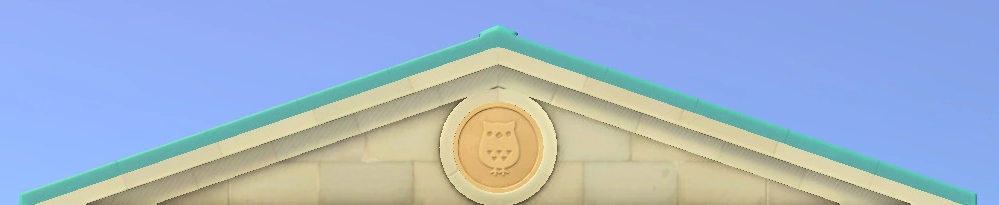
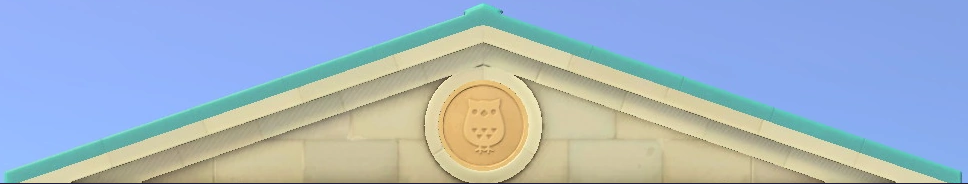
styling and details changes

Changed region(s): [[0.0, 0.0272, 1.0, 1.0], [0.4339, 0.7337, 0.5579, 0.9511], [0.5579, 0.7337, 0.5888, 0.7609]]

diff --git a/src/components/Header.css b/src/components/Header.css
@@ -10,13 +10,14 @@
 }
 
 .Header .bgimage {
-  background-image: url("../assets/museum-top.png");
+  background-image: url("../assets/museum-top.PNG");
   background-repeat: no-repeat;
   background-size: cover;
   background-color: #a6a286;
   opacity: 0.8;
   width: 100%;
   height: 370px;
+  background-position: bottom 0px;
 }
 
 .Header .pillar1 {
@@ -32,32 +33,36 @@
   height: 20px;
   background-color: #cec6ac;
   border-bottom: 3px groove #a6a286;
+  box-sizing: border-box;
 }
 
 @media only screen and (max-width: 480px) {
   .Header .bgimage {
-    background-image: url("../assets/museum-top.png");
+    background-image: url("../assets/museum-top.PNG");
     background-repeat: repeat;
     background-size: 100% 100%;
     background-color: tan;
     height: 100px;
+    background-position: bottom 0px;
   }
 }
-@media only screen and (min-width: 481px) and (max-width: 768px) {
+@media only screen and (min-width: 481px) and (max-width: 900px) {
   .Header .bgimage {
-    background-image: url("../assets/museum-top.png");
+    background-image: url("../assets/museum-top.PNG");
     background-repeat: no-repeat;
     background-size: cover;
     background-color: tan;
     height: 150px;
+    background-position: bottom 0px;
   }
 }
-@media only screen and (min-width: 769px) and (max-width: 1000px) {
+@media only screen and (min-width: 901px) and (max-width: 2000px) {
   .Header .bgimage {
-    background-image: url("../assets/museum-top.png");
-    background-repeat: no-repeat;
-    background-size: cover;
+    background-image: url("../assets/museum-top.PNG") no-repeat center fixed;
+    background-size: 100% 100%;
+    background-clip: content-box;
     background-color: tan;
-    height: 150px;
+    height: 250px;
+    background-position: bottom 0px;
   }
 }

diff --git a/src/components/Details.tsx b/src/components/Details.tsx
@@ -19,11 +19,14 @@ const Details = () => {
   }, [name]);
 
   const [shown, setShown] = useState(true);
+  const [flipped, setFlipped] = useState(false);
 
   const handleClick = (): void => {
     {
       shown ? setShown(false) : setShown(true);
     }
+    setFlipped(true);
+    setTimeout(() => setFlipped(false), 500);
   };
 
   return (
@@ -31,7 +34,11 @@ const Details = () => {
       <h2>{art?.name}</h2>
       {shown ? (
         <>
-          <img className="art-image" src={art?.image_url} alt={art?.name}></img>
+          <img
+            className={`art-image${flipped ? " animation" : ""}`}
+            src={art?.image_url}
+            alt={art?.name}
+          ></img>
           <div className="info-container">
             {art?.has_fake && (
               <img
@@ -57,7 +64,7 @@ const Details = () => {
       ) : (
         <>
           <img
-            className="art-image"
+            className={`art-image${flipped ? " animation" : ""}`}
             src={art?.fake_image_url}
             alt={art?.name}
           ></img>
@@ -69,7 +76,8 @@ const Details = () => {
               alt="Fake"
             />
             <p>
-              <b>Original Name:</b> {art?.art_name}
+              <b>Original Name:</b> {art?.art_name}{" "}
+              <p className="forgery-text">Fake Version</p>
             </p>
             <p>
               <b>By:</b> {art?.author}

diff --git a/src/components/Details.css b/src/components/Details.css
@@ -4,8 +4,56 @@
   align-items: center;
 }
 .Details .art-image {
-  height: 200px;
+  height: 300px;
   width: auto;
+}
+
+.Details .forgery-text {
+  background-color: rgba(0, 255, 128, 0.432);
+  padding: 10px;
+  width: 50%;
+  border-radius: 20px;
+  text-align: center;
+}
+
+.Details .animation {
+  animation: shake 1s;
+}
+
+@keyframes shake {
+  0% {
+    transform: translate(2px, 1px) rotate(0deg);
+  }
+  10% {
+    transform: translate(-1px, -2px) rotate(-2deg);
+  }
+  20% {
+    transform: translate(-3px, 0px) rotate(3deg);
+  }
+  30% {
+    transform: translate(0px, 2px) rotate(0deg);
+  }
+  40% {
+    transform: translate(1px, -1px) rotate(1deg);
+  }
+  50% {
+    transform: translate(-1px, 2px) rotate(-1deg);
+  }
+  60% {
+    transform: translate(-3px, 1px) rotate(0deg);
+  }
+  70% {
+    transform: translate(2px, 1px) rotate(-2deg);
+  }
+  80% {
+    transform: translate(-1px, -1px) rotate(4deg);
+  }
+  90% {
+    transform: translate(2px, 2px) rotate(0deg);
+  }
+  100% {
+    transform: translate(1px, -2px) rotate(-1deg);
+  }
 }
 
 .Details .info-container {

diff --git a/src/components/Collection.tsx b/src/components/Collection.tsx
@@ -1,4 +1,6 @@
 import { useContext } from "react";
+import { Link } from "react-router-dom";
+import AuthContext from "../context/AuthContext";
 import CollectionsContext from "../context/CollectionContext";
 import "./Collection.css";
 import SingleArtPiece from "./SingleArtPiece";
@@ -6,12 +8,21 @@ import SingleArtPiece from "./SingleArtPiece";
 const Collection = () => {
   const { collection } = useContext(CollectionsContext);
   return (
-    <div className="Collections">
-      <ul>
-        {collection.map((item) => (
-          <SingleArtPiece art={item} />
-        ))}
-      </ul>
+    <div className="Collection">
+      {collection.length >= 1 ? (
+        <ul>
+          {collection.map((item) => (
+            <SingleArtPiece art={item} />
+          ))}
+        </ul>
+      ) : (
+        <p className="message">
+          No collection here yet! Try adding some pieces from the{" "}
+          <Link to="/gallery" className="landingbuttons">
+            Gallery
+          </Link>
+        </p>
+      )}
     </div>
   );
 };

diff --git a/src/components/Gallery.css b/src/components/Gallery.css
@@ -1,5 +1,9 @@
+.Gallery {
+  margin-top: 15px;
+  box-sizing: border-box;
+}
 .Gallery ul {
-  padding: 0;
+  padding: 3px;
   list-style: none;
   display: flex;
   flex-direction: row;
@@ -8,4 +12,23 @@
   margin-left: 30px;
   margin-bottom: 20px;
   justify-content: space-evenly;
+  box-sizing: border-box;
+}
+.Gallery .SingleArtPiece {
+  border: 3px solid white;
+}
+
+.Gallery .SingleArtPiece:hover {
+  box-sizing: border-box;
+  border: 3px solid rgba(33, 175, 156, 0.87);
+}
+
+.Gallery .collection {
+  background-color: rgba(255, 255, 255, 0.39);
+  border-radius: 20px;
+  padding: 10px;
+  margin: 20px;
+  text-align: center;
+  text-decoration: none;
+  left: 40px;
 }

diff --git a/src/components/Collection.css b/src/components/Collection.css
@@ -2,9 +2,31 @@
   padding: 0;
   list-style: none;
   display: flex;
-  flex-wrap: wrap;
+  flex-direction: row-reverse;
+  flex-wrap: nowrap;
   margin-right: 30px;
   margin-left: 30px;
   margin-bottom: 20px;
   justify-content: space-evenly;
+}
+
+.Collection .message {
+  background-color: rgba(255, 255, 255, 0.39);
+  text-decoration: none;
+  border-radius: 20px;
+  padding: 10px;
+  margin: auto;
+  width: 450px;
+  text-align: center;
+}
+
+.Collection .landingbuttons {
+  text-decoration: none;
+  font-weight: 700;
+}
+
+.Collection .landingbuttons:hover {
+  text-decoration: none;
+  font-weight: 900;
+  color: hotpink;
 }

diff --git a/src/components/Gallery.tsx b/src/components/Gallery.tsx
@@ -1,4 +1,5 @@
 import { useEffect, useState } from "react";
+import { Link } from "react-router-dom";
 import SingleArt from "../models/SingleArt";
 import { getArtGallery } from "../services/artService";
 import "./Gallery.css";
@@ -13,6 +14,10 @@ const Gallery = () => {
   }, []);
   return (
     <div className="Gallery">
+      <Link to="/mycollection" className="collection">
+        See art pieces you've collected{" "}
+        <i className="fa-solid fa-palette art-icon" />
+      </Link>
       <ul>
         {art.map((item) => (
           <SingleArtPiece art={item} />

diff --git a/src/components/SingleArtPiece.css b/src/components/SingleArtPiece.css
@@ -17,6 +17,18 @@
   padding: 10px;
 }
 
+.SingleArtPiece button {
+  border: none;
+  padding: 5px;
+  margin: 2px;
+  border-radius: 20px;
+}
+
+.SingleArtPiece button:hover {
+  background-color: hotpink;
+  border-radius: 10px;
+}
+
 @media only screen and (max-width: 480px) {
   .SingleArtPiece {
     padding: 5px;
